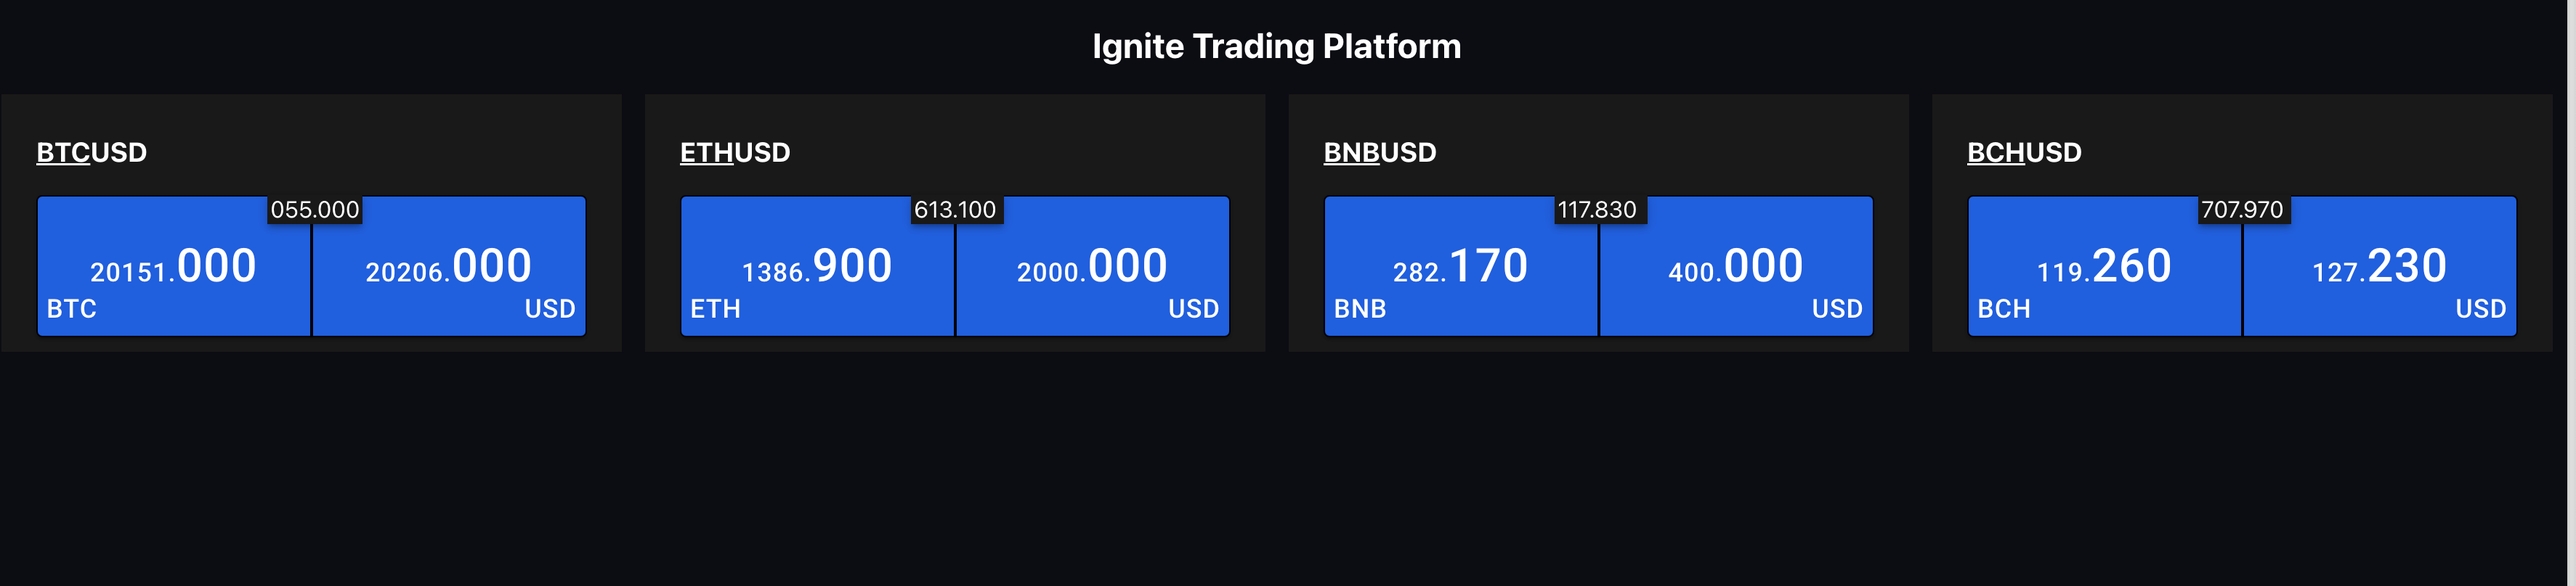
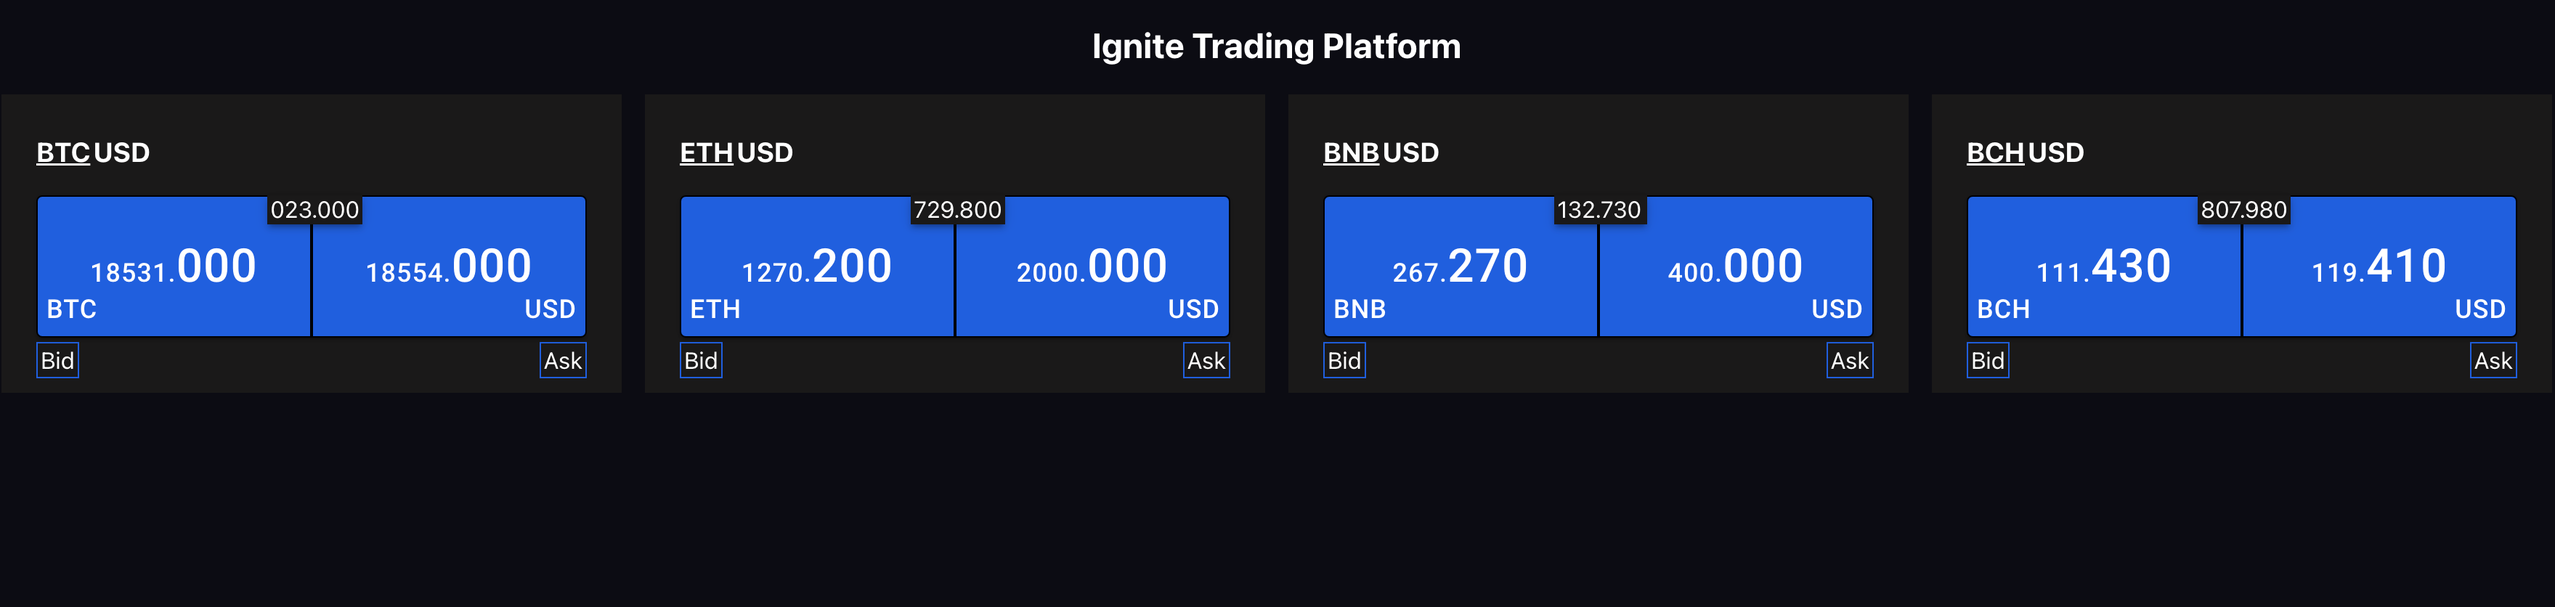
Updating data render logic

diff --git a/src/hooks/useWs.tsx b/src/hooks/useWs.tsx
@@ -14,6 +14,7 @@ export const useWs = (
   setThrottleTime: any,
   setOrderBookData: any,
   ThrottleSocketUpdate: number,
+  saveDataUntilThrottle: any,
 ) => {
   if (websocket) {
     websocket.onmessage = ({ data }: any) => transformSocketMsg({ data });
@@ -21,40 +22,49 @@ export const useWs = (
 
   const transformSocketMsg = ({ data }: { data: any }) => {
     const parsedData = JSON.parse(data);
+    // const saveAsksUntilThrottle: any = {};
     if (Object.keys(parsedData) && parsedData.table) {
       const { asks, bids, instrumentId, timestamp } = parsedData?.data[0];
       const receivedTimeStamp = parseInt(timestamp, 10);
 
+      if (!saveDataUntilThrottle[instrumentId]) {
+        saveDataUntilThrottle[instrumentId] = {
+          ask: [],
+          bid: [],
+        };
+      }
+      saveDataUntilThrottle[instrumentId]['ask'].push(...getAskPrice(asks));
+      saveDataUntilThrottle[instrumentId]['bid'].push(...getBidPrice(bids));
+
       if (!throttleTime[instrumentId] || throttleTime[instrumentId] < receivedTimeStamp) {
         setThrottleTime({ [instrumentId]: receivedTimeStamp + ThrottleSocketUpdate });
-
-        setOrderBookData({
-          [instrumentId.toLowerCase()]: {
-            ask: bestAskPrice(asks),
-            bid: bestBidPrice(bids),
-            timestamp,
-            instrumentId,
-          },
-        });
+        updateOrderBook(instrumentId, timestamp);
+        saveDataUntilThrottle[instrumentId] = {};
       }
     }
   };
 
-  const bestBidPrice = (bids: number[][]) => {
+  const updateOrderBook = (instrumentId: string, timestamp: string) => {
+    setOrderBookData({
+      [instrumentId.toLowerCase()]: {
+        ask: toFloat(Math.max(...saveDataUntilThrottle[instrumentId].ask), 3),
+        bid: toFloat(Math.max(...saveDataUntilThrottle[instrumentId].bid), 3), //bestBidPrice(bids),
+        timestamp,
+        instrumentId,
+      },
+    });
+  };
+  const getBidPrice = (bids: number[][]) =>
     // business logic for best bid price
-    const lowestBid = bids.reduce((acc: any, curr: any): number[] => {
+    bids.reduce((acc: any, curr: any): number[] => {
       acc.push(curr[0]);
       return acc;
     }, []);
-    return toFloat(Math.max(...lowestBid), 3);
-  };
 
-  const bestAskPrice = (asks: number[][]) => {
+  const getAskPrice = (asks: number[][]) =>
     // business logic for best ask price
-    const lowestAsk = asks.reduce((acc: any, curr: any): number[] => {
+    asks.reduce((acc: any, curr: any): number[] => {
       acc.push(curr[0]);
       return acc;
     }, []);
-    return toFloat(Math.max(...lowestAsk), 3);
-  };
 };

diff --git a/src/components/orderBook/InstrumentPrice.tsx b/src/components/orderBook/InstrumentPrice.tsx
@@ -7,6 +7,7 @@ import { Button, ButtonGroup, Paper } from '@mui/material';
 
 import { useEffect, useReducer } from 'react';
 import styled from 'styled-components';
+import { CommonEnum } from '../../enum/CommonEnum';
 import { IInstrumentData } from '../../types';
 import { toFloat } from '../../utils';
 
@@ -57,6 +58,11 @@ const StyledBtnGrp = styled(ButtonGroup)`
   width: 100%;
 `;
 
+const StyledSpan = styled.span`
+  border: 1px solid #005ce6;
+  padding: 2px;
+`;
+
 interface IProps {
   insDetail: IInstrumentData | {};
 }
@@ -77,24 +83,45 @@ const InstrumentPrice: React.FC<IProps> = ({ insDetail }) => {
   }, [ask, bid]);
 
   return (
-    <StyledBtnGrp
-      id="instrumentPrice"
-      variant="contained"
-      aria-label="outlined primary button group"
-    >
-      <StyledBtn id="bidPanel">
-        <InstrumentLeft> {from} </InstrumentLeft>
-        {bidWholeNos}.<StyledDecimal>{bidFloatNos}</StyledDecimal>
-      </StyledBtn>
-
-      <StyledPaper square={true} elevation={3}>
-        {diffVal}
-      </StyledPaper>
-      <StyledBtn id="askPanel">
-        <InstrumentRight> {to} </InstrumentRight>
-        {askWholeNos}.<StyledDecimal>{askFloatNos}</StyledDecimal>
-      </StyledBtn>
-    </StyledBtnGrp>
+    <>
+      <StyledBtnGrp
+        id="instrumentPrice"
+        variant="contained"
+        aria-label="outlined primary button group"
+      >
+        <StyledBtn id="bidPanel">
+          <InstrumentLeft> {from} </InstrumentLeft>
+          {bidWholeNos}.<StyledDecimal>{bidFloatNos}</StyledDecimal>
+        </StyledBtn>
+        <StyledPaper square={true} elevation={3}>
+          {diffVal}
+        </StyledPaper>
+        <StyledBtn id="askPanel">
+          <InstrumentRight> {to} </InstrumentRight>
+          {askWholeNos}.<StyledDecimal>{askFloatNos}</StyledDecimal>
+        </StyledBtn>
+      </StyledBtnGrp>
+      <div
+        style={{
+          marginTop: '3px',
+        }}
+      >
+        <StyledSpan
+          style={{
+            float: 'left',
+          }}
+        >
+          {CommonEnum.BID}
+        </StyledSpan>
+        <StyledSpan
+          style={{
+            float: 'right',
+          }}
+        >
+          {CommonEnum.ASK}
+        </StyledSpan>
+      </div>
+    </>
   );
 };
 

diff --git a/src/contextProvider/WsContextProvider.tsx b/src/contextProvider/WsContextProvider.tsx
@@ -31,10 +31,12 @@ export const WebsocketContext = createContext<any>({});
 const WsContextProvider: React.FC<Props> = ({ children }) => {
   const socket = useRef<any>(null);
   const [isReady, setIsReady] = useState(false);
+  const saveDataUntilThrottle: any = {};
 
   // read data from env variables
   const { FXPairs, ThrottleLimit } = useEnv();
 
+  // states
   const [orderBookData, setOrderBookData] = useReducer(
     (state: IOrderBookData | {}, newState: Partial<IOrderBookData>) => {
       const newVal = Object.assign({}, state, newState);
@@ -42,9 +44,7 @@ const WsContextProvider: React.FC<Props> = ({ children }) => {
     },
     {},
   );
-
   const [instrumentArgs, setInstrumentArgs] = useState<any>([]);
-
   const [throttleTime, setThrottleTime] = useReducer(
     (state: IThrottle | {}, newState: IThrottle) => {
       return Object.assign(state, newState);
@@ -52,6 +52,7 @@ const WsContextProvider: React.FC<Props> = ({ children }) => {
     {},
   );
 
+  // use effects
   useEffect(() => {
     connect();
     return () => {
@@ -97,7 +98,14 @@ const WsContextProvider: React.FC<Props> = ({ children }) => {
     }
   };
 
-  useWs(socket.current, throttleTime, setThrottleTime, setOrderBookData, ThrottleLimit);
+  useWs(
+    socket.current,
+    throttleTime,
+    setThrottleTime,
+    setOrderBookData,
+    ThrottleLimit,
+    saveDataUntilThrottle,
+  );
 
   useEffect(() => {
     if (instrumentArgs.length) {

diff --git a/src/components/orderBook/InstrumentHeader.tsx b/src/components/orderBook/InstrumentHeader.tsx
@@ -16,7 +16,7 @@ const InstrumentHeader: React.FC<IProps> = (props) => {
         display: 'flex',
       }}
     >
-      <u>{from} </u>
+      <u style={{marginRight : '2px'}}>{from} </u>
       {to}
     </h3>
   );

diff --git a/src/components/orderBook/Instrument.tsx b/src/components/orderBook/Instrument.tsx
@@ -17,6 +17,7 @@ const StyledContainer = styled(Container)`
   background: #1a1919;
   color: white;
   min-height: 170px;
+  overflow : auto;
 `;
 
 interface IProps {

diff --git a/src/enum/CommonEnum.ts b/src/enum/CommonEnum.ts
@@ -1,3 +1,5 @@
 export enum CommonEnum {
   ORDER_BOOK = 'Ignite Trading Platform',
+  ASK = 'Ask',
+  BID = 'Bid'
 }
